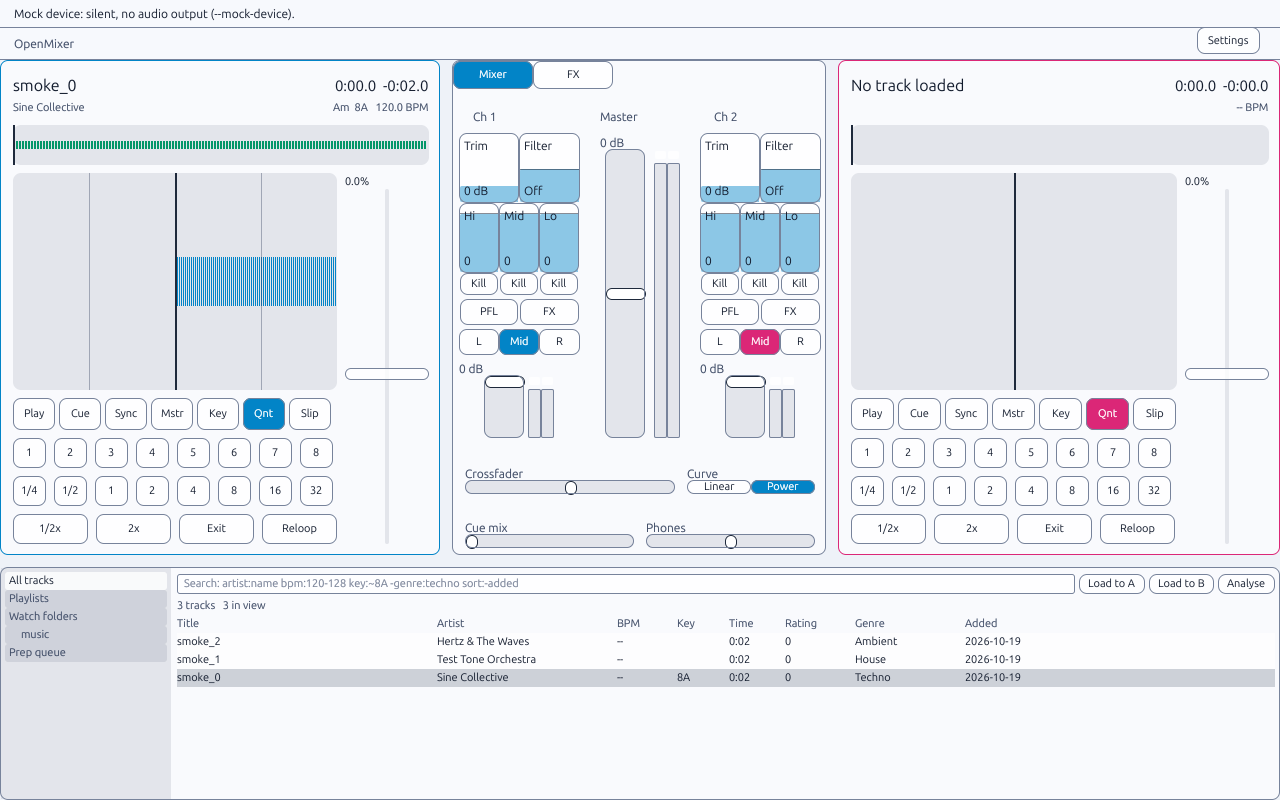
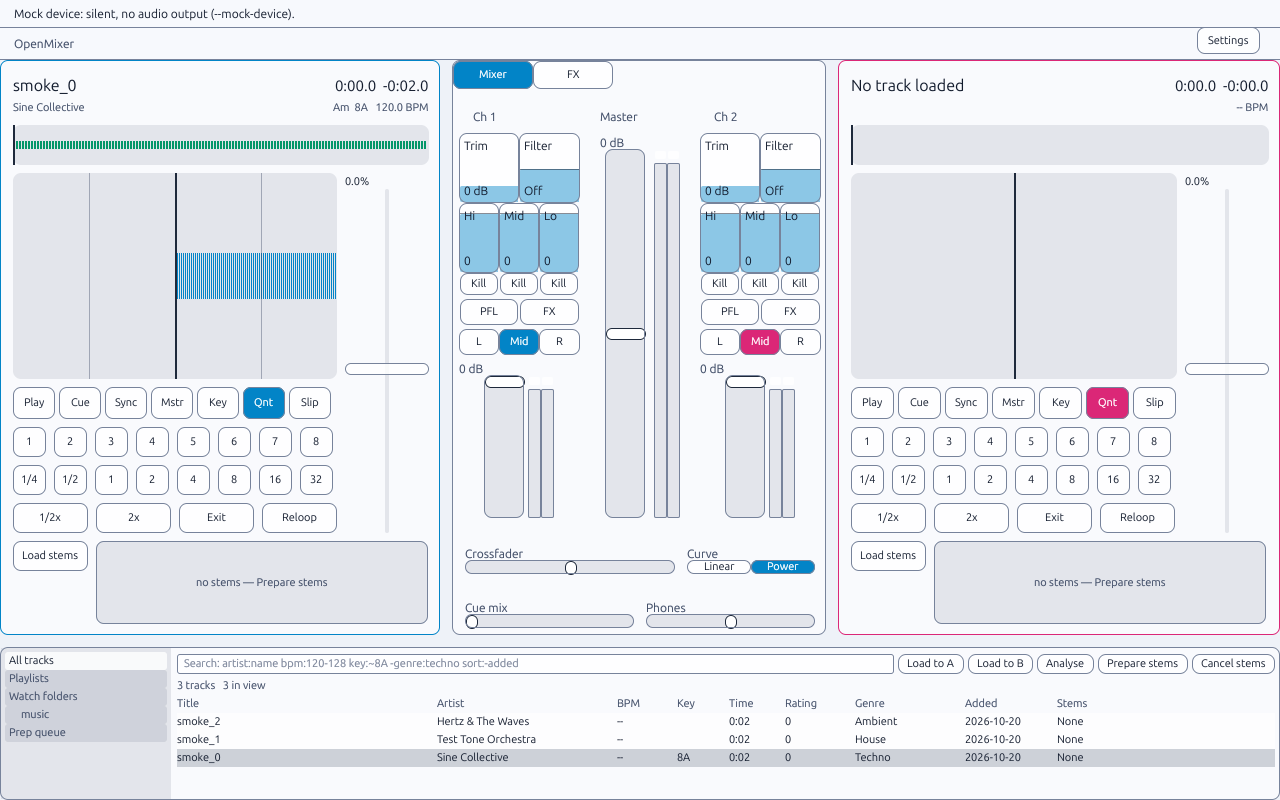
feat(gui): stem pads in the deck card with layout tests and screenshots (Todo 30 WIP)
Stem row under the loops, full card width: four pads with mute tap, solo,
vertical volume and filter knob (drag targets StemVolume and StemFilter),
greyed with 'no stems - Prepare stems' when the deck has none. Deck rows take
0.79 of the window so the zoom stays visible at 900x600; a layout test covers
900x600, 1280x800, 1024x640 and 1920x1080. --demo-library --mock-stems
separates deck A's track through the mock. main-stems scene added; main-dark
and main-daylight recaptured. Docs and progress updated (Todo 30 done at logic
and view level, not checked by ear).

diff --git a/docs/PROGRESS.md b/docs/PROGRESS.md
@@ -19,7 +19,7 @@ _Regenerate with `python3 tools/progress_heatmap.py` after editing `docs/progres
 | 2 | Audio engine | 🟡 (debug panel 26a partial; 8b FFmpeg optional and open; 10-minute soak not in CI) |
 | 3 | Analysis | 🟡 (htdemucs model export and app wiring, 19, open) |
 | 4 | Library | 🟡 (crates open) |
-| 5 | UI | 🟡 (LookAndFeel 25 partial, stem pads 30 open; decks, mixer and settings partial; not checked by eye) |
+| 5 | UI | 🟡 (LookAndFeel 25 partial; stem pads 30 done at logic and view level, not checked by ear; decks, mixer and settings partial; not checked by eye) |
 | 6 | Hardware | 🟡 (32 and 33 moved to Wave 2; 34-36 open) |
 | 7 | Intelligence | ⬜ |
 | 8 | Pro surface | ⬜ |
@@ -104,7 +104,7 @@ Goal: reliable, low-latency playback of two decks through a mixer, controllable 
 | 27 Mixer widgets + metering | Channel strips (trim, filter, 3-band EQ with kill, PFL, FX shortcut, L/Mid/R assign, fader, stereo peak meter with hold and clip); crossfader with Linear/Power curves; master and cue sections; FX panel per rack with unit select, enable, mix and knobs | Channel strips, master, crossfader (linear and constant-power), cue and FX panel drawn in GPUI with drag; stereo peak meter ballistics in `om-ui` | RMS meters; FX tabs hiding the strips; not verified by eye |
 | 28 Library browser + wiring | Sidebar tree (all tracks, playlists, folders, watch folders, prep queue); search box with the query syntax and debounce; virtualised, paged, sortable table with a harmonic-compatibility tint against the playing deck; Load buttons, double-click, drag onto a deck; import via file chooser; track loader that fills waveform and grid from cache or from the prep queue; `OPENMIXER_LIBRARY_DB` override | Sidebar tree, search box on the query syntax, paged sortable table with the Camelot tint, row selection, Load buttons, double-click and drag onto a deck; track loader fills waveform and grid and refreshes when analysis lands; `--smoke` (gui) ingests generated tracks and loads one | Playlist editing; prep queue reorder and remove; auto-enqueue after a scan; import by file chooser (the settings page takes a typed path); window only launched and inspected, not checked by eye |
 | 29 Automix panel + settings | Settings overlay with tabs for audio (driver, device, rate, buffer, master and headphone outputs, live latency/xrun/CPU), MIDI (per-input toggles, map file, learn), library (watch folders, rescan, scan interval, XML import), appearance (theme picker, plugin themes), plugins (folder, loaded list, reload, built-in load and unload); versioned `preferences.json` applied at start-up and on change | Versioned preferences, applier and `AppComposition`; audio, MIDI, library, plugins and appearance pages; overlay in the header (Escape closes); audio device restored at start-up; `--mock-device --smoke` prints the MIDI and plugin status lines | Automix panel (Wave 7, needs Todo 38); `--settings` start flag; live scan-interval change; MIDI hot-plug refresh while open; dynamic plugin loading (open decision); overlay not checked by eye |
-| 30 Stem pads UI | Per-stem mute and volume | Engine side only (S5): `stem.<d>.<s>.volume\|mute\|filter` ids, `EngineSnapshot.stems`, `Command::LoadStems` | The pads view itself (S7); the app does not load a prepared set into a deck yet |
+| 30 Stem pads UI | Per-stem mute, volume, filter, solo and load in the deck card | `om-ui` `StemBinding` (solo with restore, all-on, activity), `TrackLoader` auto-load of cached stems (`stems.autoLoad`, default on) and Load/Stems off toggle, `stem.<d>.<s>.*` MIDI targets and fixture; GPUI stem pads row with `--mock-stems` screenshot | Logic and view are tested; not verified by ear (no audio played, mock device only) |
 | 31 UI verification gate | Scripted DJ operates the full window only through widgets (search and load, transport, crossfader, EQ, hotcues, loops, FX, theme switch) on a paced mock device; after each action the widget and engine must agree; xrun, underrun, NaN and overflow budgets; 10-minute opt-in run; `--smoke` opens the window and exits 0 (skipped without a display) | `crates/openmixer/tests/ui_gate.rs`: 8 s test plus a 10-minute `#[ignore]` run, driving the same composition as the binary through the widget and binding models; `--smoke` with `gui` | Window-driven pass (needs a display); overview seek, settings and drag-and-drop not in the scenario; stem pads not covered |
 
 ---

diff --git a/docs/screenshots/REVIEW.md b/docs/screenshots/REVIEW.md
@@ -1,6 +1,6 @@
 # Screenshot review
 
-Captured with `tools/screenshots.sh` (debug build, X11 on WSLg, llvmpipe-class software GL, 1280x800, `--mock-device`, demo library of 3 generated 2 s sine WAVs, deck A loaded). Looked at by eye on 2026-10-19. The window renders (not blank/black). Scenes: `main-dark`, `main-daylight`, `debug-panel`, `settings-audio`, `settings-appearance`, `settings-midi`, `settings-library`.
+Captured with `tools/screenshots.sh` (debug build, X11 on WSLg, llvmpipe-class software GL, 1280x800, `--mock-device`, demo library of 3 generated 2 s sine WAVs, deck A loaded). Looked at by eye on 2026-10-19. The window renders (not blank/black). Scenes: `main-dark`, `main-daylight`, `main-stems`, `debug-panel`, `settings-audio`, `settings-appearance`, `settings-midi`, `settings-library`.
 
 ## Fixed while capturing
 - Theme was not applied at start-up: `OPENMIXER_THEME` and the saved theme never reached the window (it always used `openmixer.dark`). Now the window starts on the env theme, else the saved one.
@@ -24,6 +24,21 @@ The first review listed 13 defects. A fix pass followed with `tools/screenshots.
 | 11 | Debug panel clipping and squeeze | partially | The parameter list scrolls with the wheel and a "scroll the list for more" footer marks the clip; column narrowed 340 to 300 px. Decks and mixer are still narrower than in a normal run. |
 | 12 | Banner / header | fixed | Banner is taller, has padding, primary text colour and a bottom border; the header strip has an "OpenMixer" title and a border. |
 | 13 | Crossfader / cue bars had no handle | fixed | Thumb from `LookAndFeel` fader is drawn on the track (its offset was doubled before, which put it off the bar). |
+
+## Wave 7 stem pads (`main-stems`, 2026-10-19)
+
+Scene: `tools/screenshots.sh main-stems` runs `--demo-library --mock-stems`: deck A's track is separated by the mock separator and its stems are loaded, so the pads are live. Deck B has no track. Three capture iterations; `main-dark` and `main-daylight` were recaptured because every deck card gained the stems row.
+
+| Found in the first capture | Status | What changed |
+|---|---|---|
+| Pads about 55 px wide: "Drums" and "Vocals" clipped, the solo button ate the name | fixed | The stems row spans the whole card width under the pitch column, so four pads get about 78 px each. |
+| Greyed deck B: "no stems - Prepare stems" wrapped to three lines in the control column | fixed | The greyed state is one caption across the pads; the control column holds only the Load stems button. |
+| Zoomed waveform hidden at 900x600 (the fixed rows left 8 px) | fixed | Deck rows take 0.79 of the window (was 0.68) and the stems row is 83 px. The `deck_card` test asserts the zoom is shown at 900x600, 1280x800, 1024x640 and 1920x1080. The library band is shorter at 900x600 as a result. |
+
+Remaining observations (not fixed):
+- The volume slider is about 45 px tall (the pad body). It is usable, but short; a taller stems row would need the zoom to shrink again.
+- The activity glow is a translucent fill over the mute header, subtle at low levels in the mock (sine tones at 0.25 amplitude).
+- Not verified by ear: the mock device plays nothing, so stem mixing is checked through the engine tests only.
 
 ## Remaining observations
 - Settings Library page: the watch-folder path runs right up to its Remove button.
